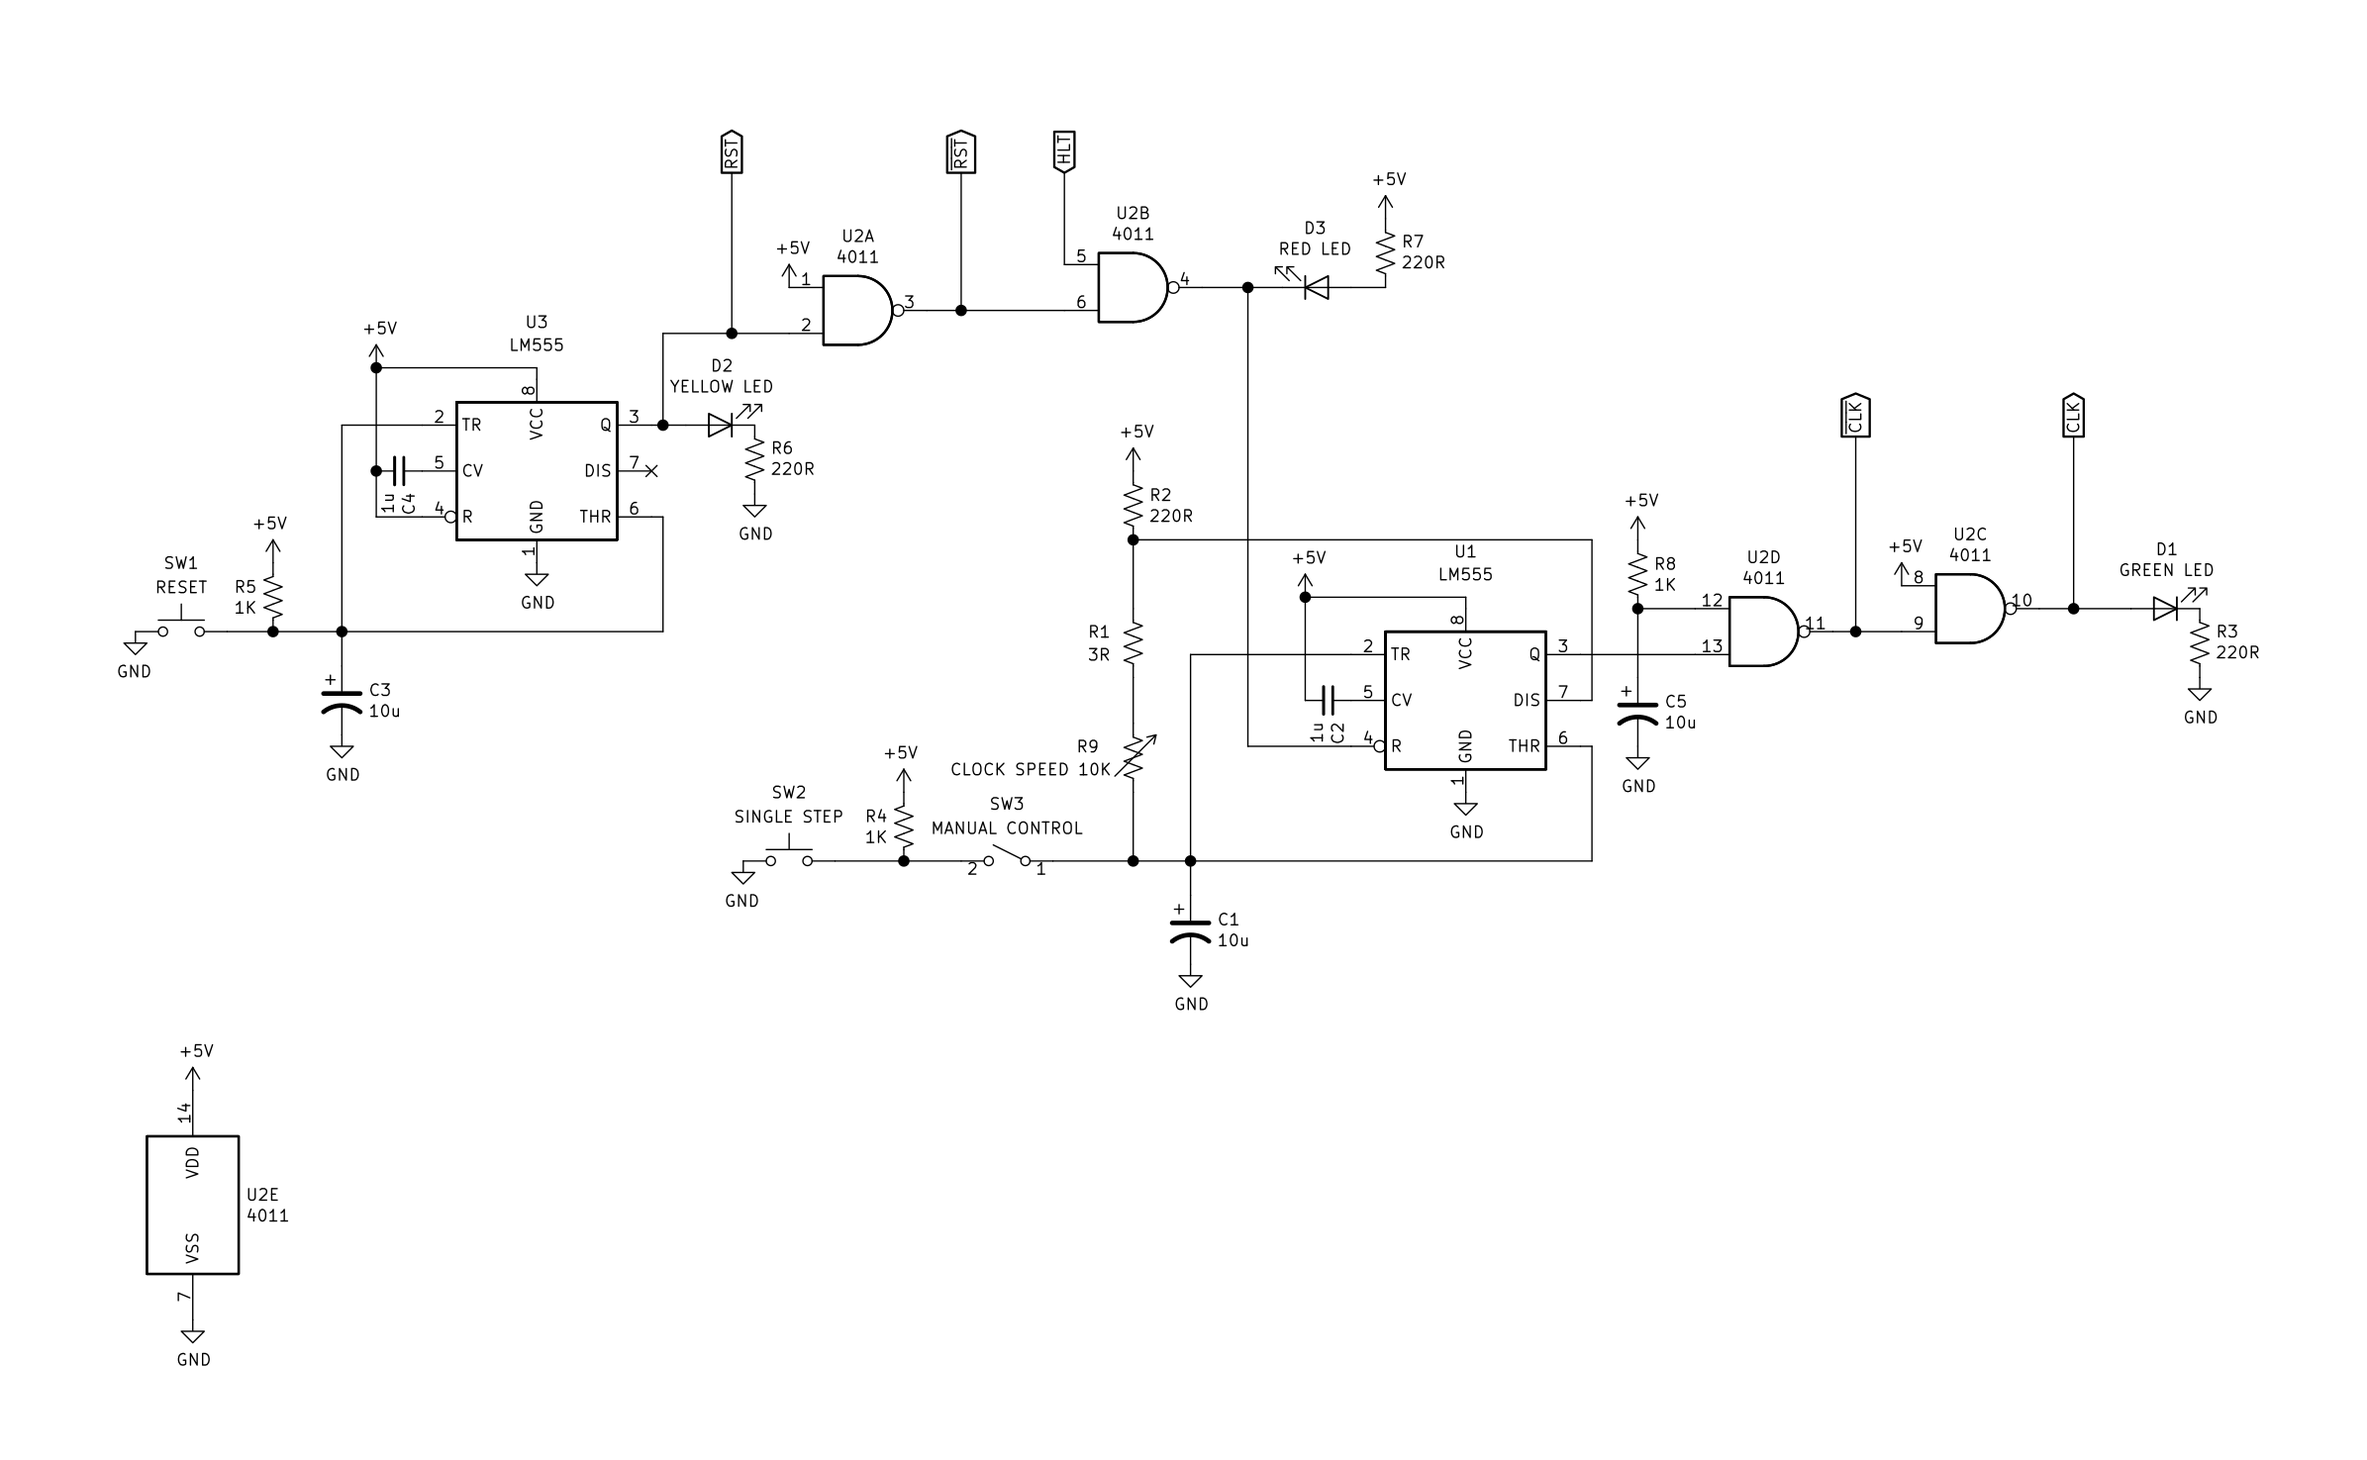
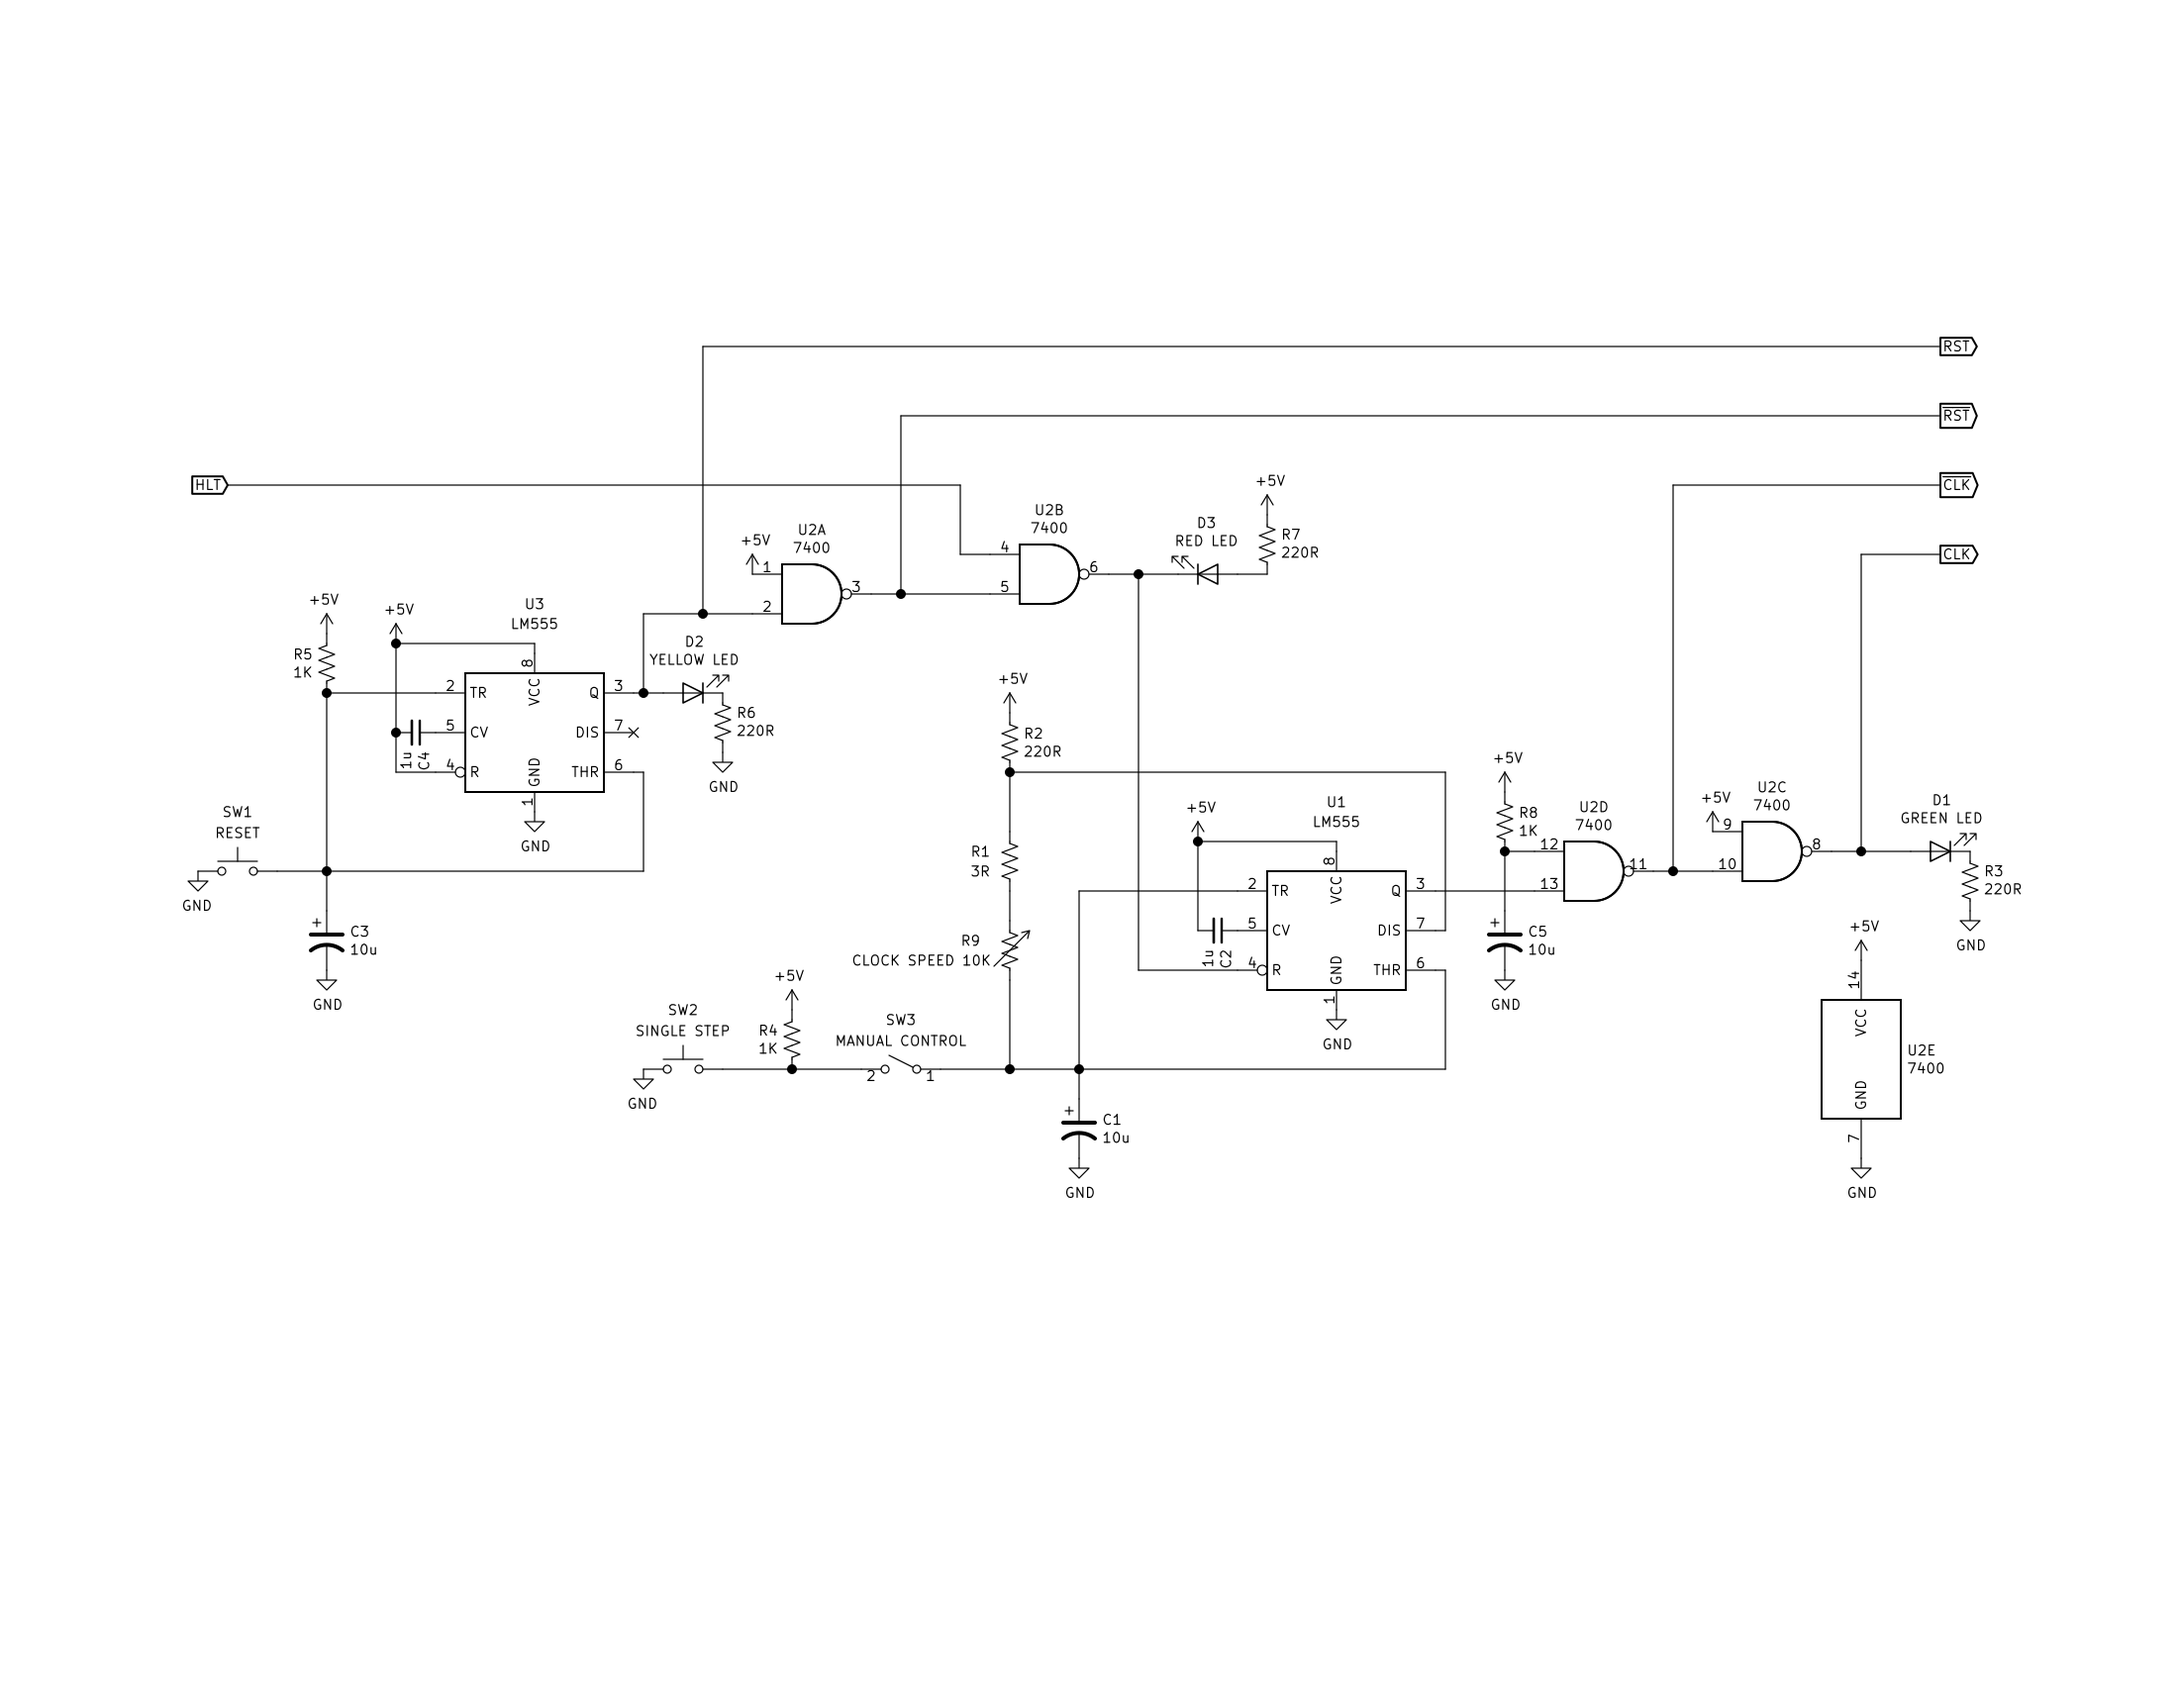
update halt schematic

diff --git a/_posts/2021-12-20-halt.md b/_posts/2021-12-20-halt.md
@@ -17,6 +17,8 @@ We complete our clock module by adding a halt signal and test it with our addres
 
 [![Schematic](/images/halt_schematic.png)](/images/halt_schematic.png)
 
+* note: schematic has been updated with changes from [logic families](/logic-families/) video
+
 [kicad source](https://github.com/wardi/cpu/tree/main/schematics)
 
 ## Transcript:
